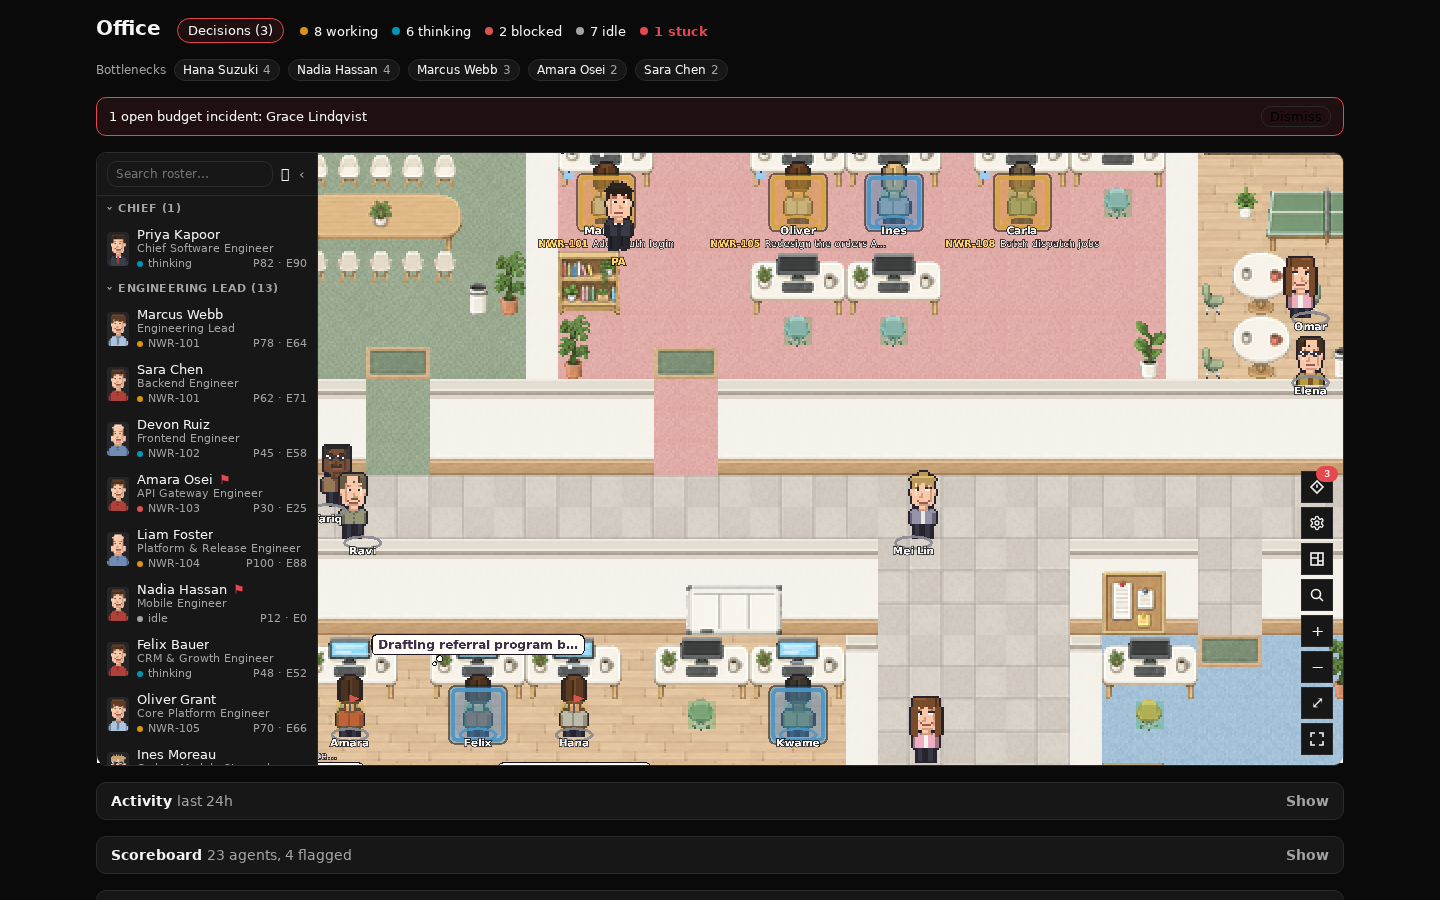
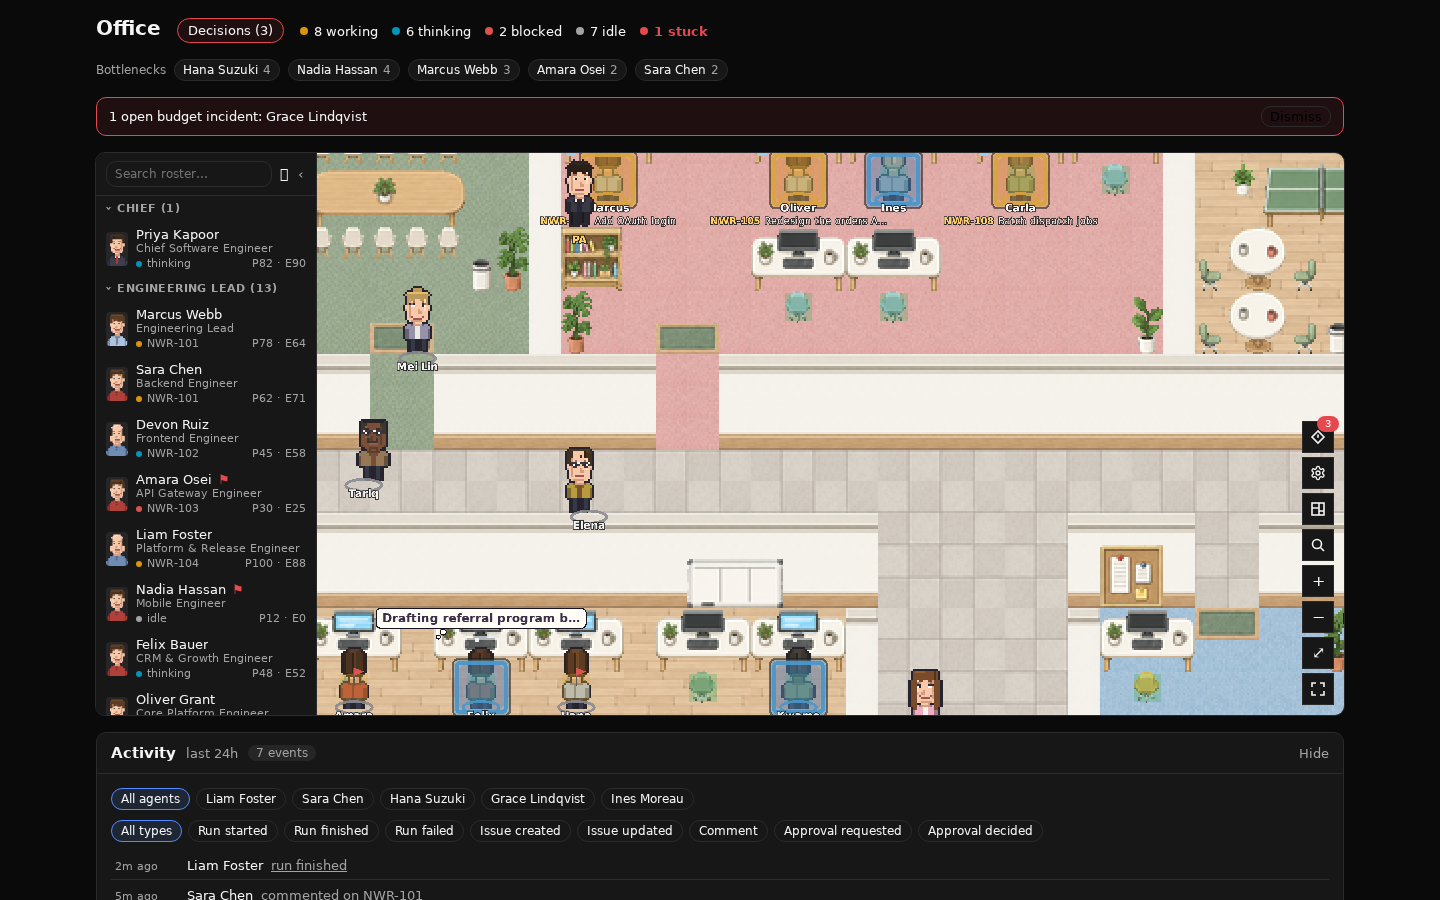
The published set is shot against the fitted canvas, and panels frames the strip
Four shots regenerated after the fit and the label clip landed: office, office-small,
office-closeup and the new panels. The old office.png predated the plate fix, so the set was
arguing against code that no longer exists.

The panels shot was scrolling to scrollHeight, which is the wrong anchor once the strip opens
whatever is flagged — the foot of the page is the last row of an open reference table, and both
the lead panel and the canvas are off frame. It anchors on the Activity header instead, keeping
the canvas's bottom edge in shot, because the claim is about what sits below it.

The hero caption counted 16 agents; the demo roster is 23.

Changed region(s): [[0.0625, 0.1556, 0.9375, 1.0]]

diff --git a/README.md b/README.md
@@ -15,7 +15,7 @@ Every agent sits at a desk and shows what it's doing right now. Work flies betwe
 [![Art: Scandi wood](https://img.shields.io/badge/art-Scandi_wood-e9d2a8)](assets/catalogue.json)
 [![PRs welcome](https://img.shields.io/badge/PRs-welcome-brightgreen.svg)](CONTRIBUTING.md)
 
-![The office floor for a fictional 16-agent company](docs/screenshots/office.png)
+![The office floor for a fictional 23-agent company](docs/screenshots/office.png)
 
 <sub>All screenshots use a made-up company ("Northwind Robotics") from the built-in demo, drawn in the Scandi wood theme that ships with the plugin. No real data.</sub>
 
